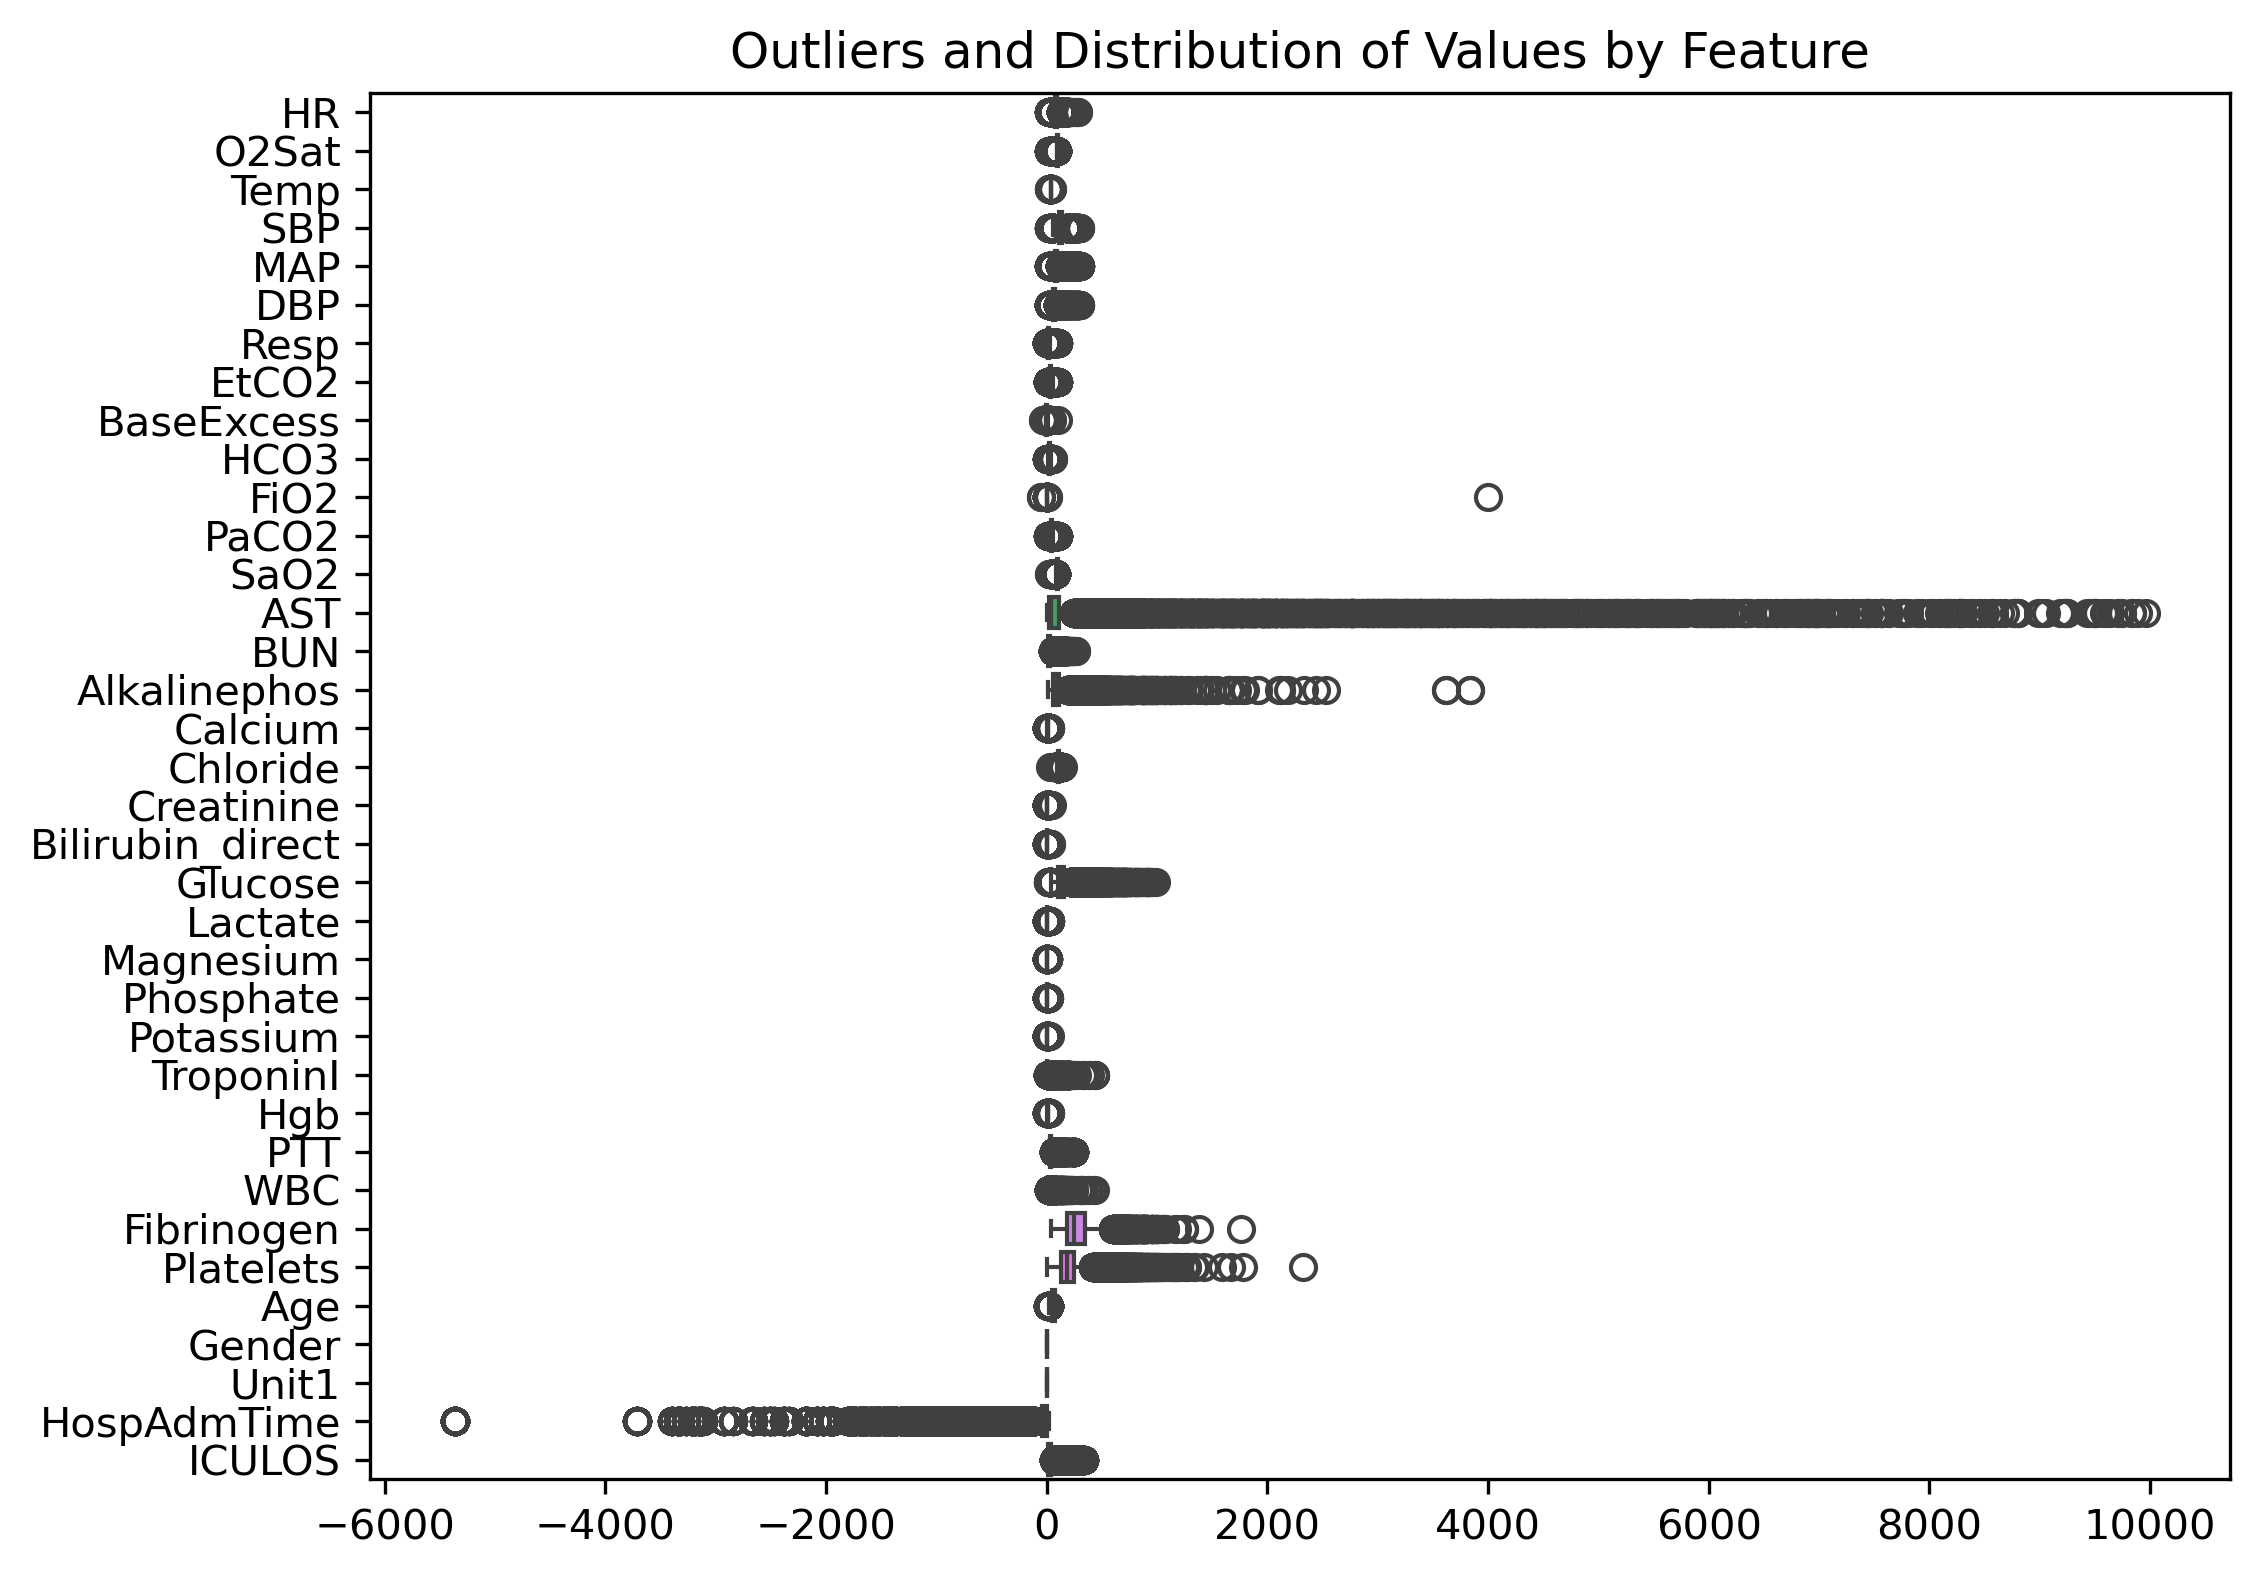
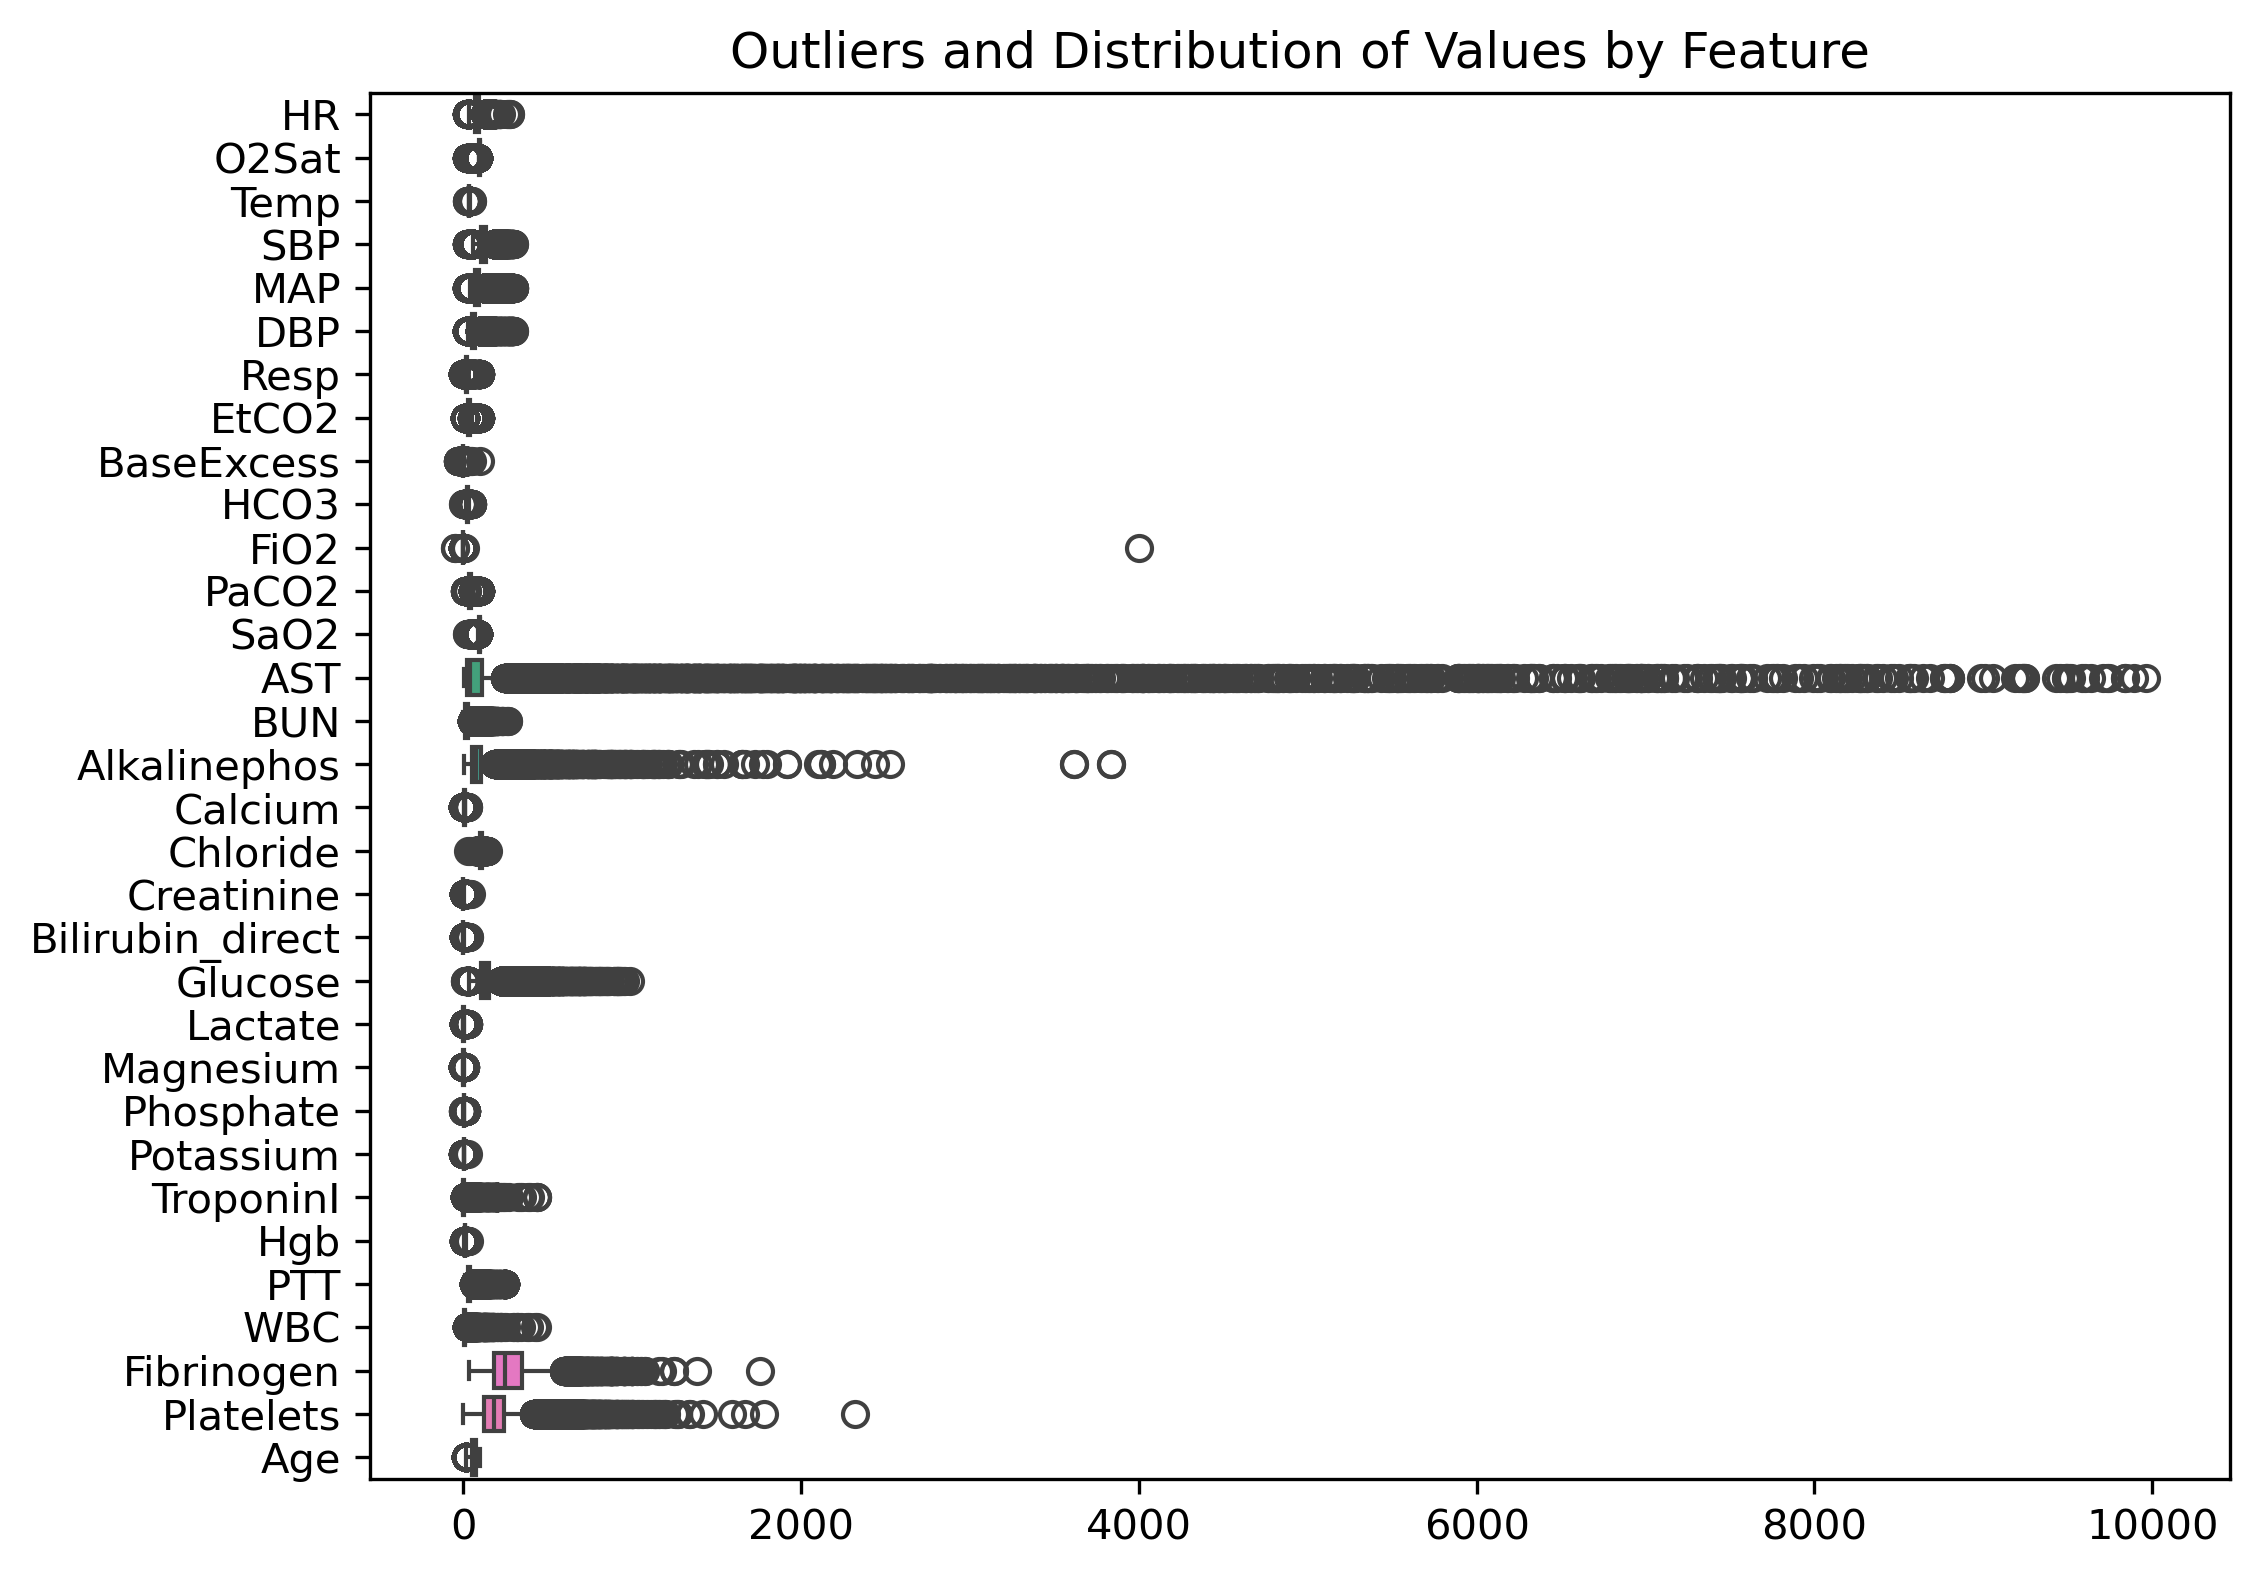
Created histograms highlighting outliers

diff --git a/feature_selection/feature_visualisations.py b/feature_selection/feature_visualisations.py
@@ -12,6 +12,7 @@ import seaborn as sns
 import matplotlib.pyplot as plt
 import numpy as np
 
+
 # # Use LaTeX for all text in the plot
 # plt.rcParams.update({
 #     "text.usetex": True,
@@ -45,14 +46,50 @@ for file in files_B:
 combined_data = pd.concat(dataframes.values())
 
 # Separate out features and labels
-x_data = combined_data.drop(columns = "SepsisLabel")
+x_data = combined_data.drop(columns = ["SepsisLabel", "Gender", "Unit1", 
+                                       "HospAdmTime", "ICULOS"])
 y = combined_data["SepsisLabel"]
 
-# Plot 'box plots' of all features (basically just shows outliers)
-plt.figure(figsize=(8,6))
-sns.boxplot(data = x_data, orient="h")
-plt.title("Outliers and Distribution of Values by Feature")
-plt.savefig("../plots/all_feature_boxplot.png", dpi=300, bbox_inches='tight')
-plt.show()
+""" Swap boxplot to histogram for better readability """
+
+# # Plot 'box plots' of all features (basically just shows outliers)
+# plt.figure(figsize=(8,6))
+# sns.boxplot(data = x_data, orient="h")
+# plt.title("Outliers and Distribution of Values by Feature")
+# # plt.savefig("../plots/all_feature_boxplot.png", dpi=300, bbox_inches='tight')
+# plt.show()
+
+
+# Plot histograms - highlighting outliers
+for feature in x_data.columns:
+
+    data = x_data[feature].dropna()
+    mean, sigma = data.mean(), data.std()
+    # Calculate outlier boundaries
+    lower_bound, upper_bound = mean - 3*sigma, mean + 3*sigma 
+
+    # Define bin edges
+    bins = np.histogram_bin_edges(data, bins=50)
+
+    # Separate values inside and outside the 3-sigma range
+    inlier_counts, _ = np.histogram(data[(data >= lower_bound) & (data <= upper_bound)], bins=bins)
+    outlier_counts, _ = np.histogram(data[(data < lower_bound) | (data > upper_bound)], bins=bins)
+
+    # Plot histogram
+    plt.figure(figsize=(8, 5))
+    plt.bar(bins[:-1], inlier_counts, width=np.diff(bins), color="blue", alpha=0.6, label="Within 3σ")
+    plt.bar(bins[:-1], outlier_counts, width=np.diff(bins), color="red", alpha=0.6, label="Outliers")
+
+    # Overlay vertical lines for mean and thresholds
+    plt.axvline(mean, color="black", linestyle="--", label="Mean")
+    plt.axvline(lower_bound, color="purple", linestyle="--", label="3 Std Dev")
+    plt.axvline(upper_bound, color="purple", linestyle="--")
+
+    plt.title(f"Histogram of {feature}")
+    plt.xlabel(feature)
+    plt.ylabel("Frequency")
+    plt.legend()
+    plt.savefig(f"../plots/{feature}_histogram.png", dpi=300, bbox_inches='tight')
+    plt.show()
 
 
